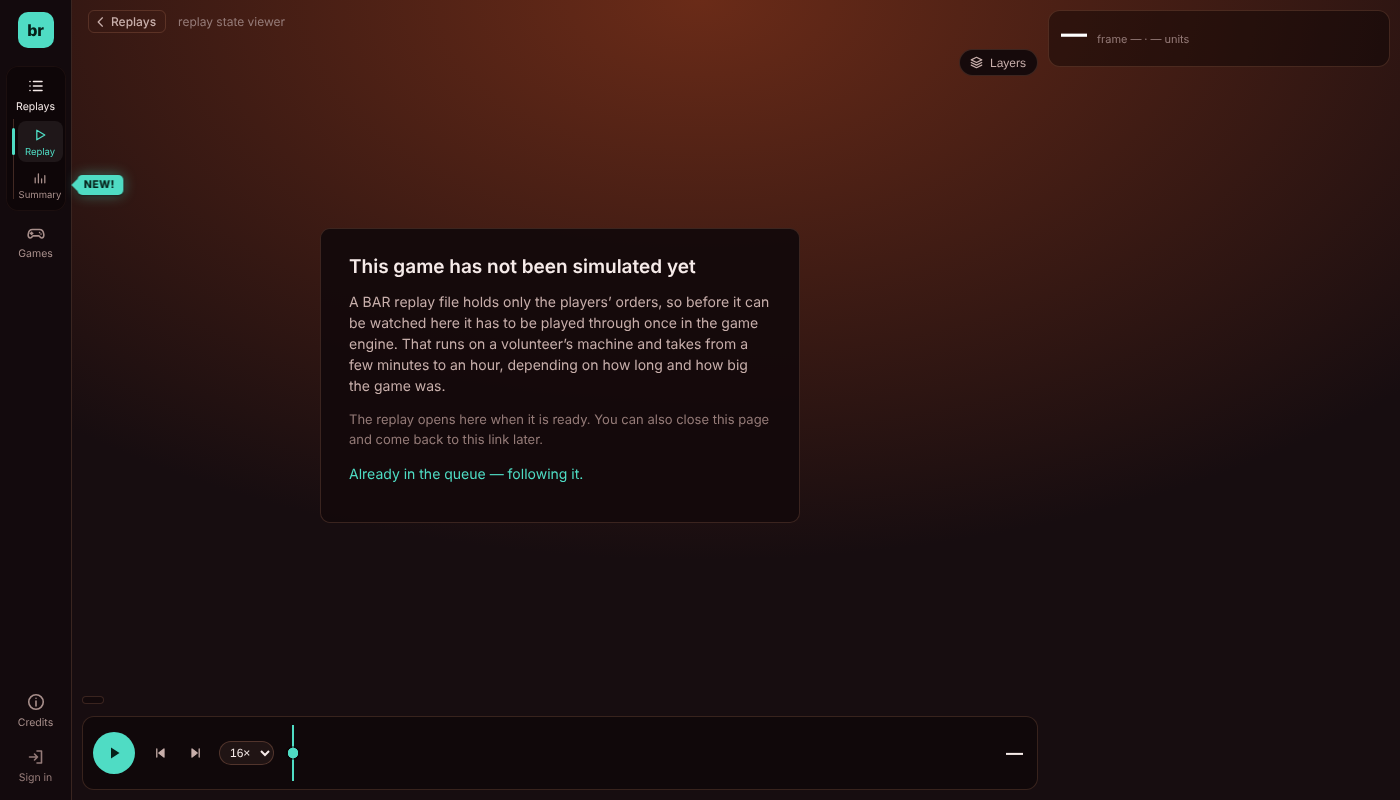
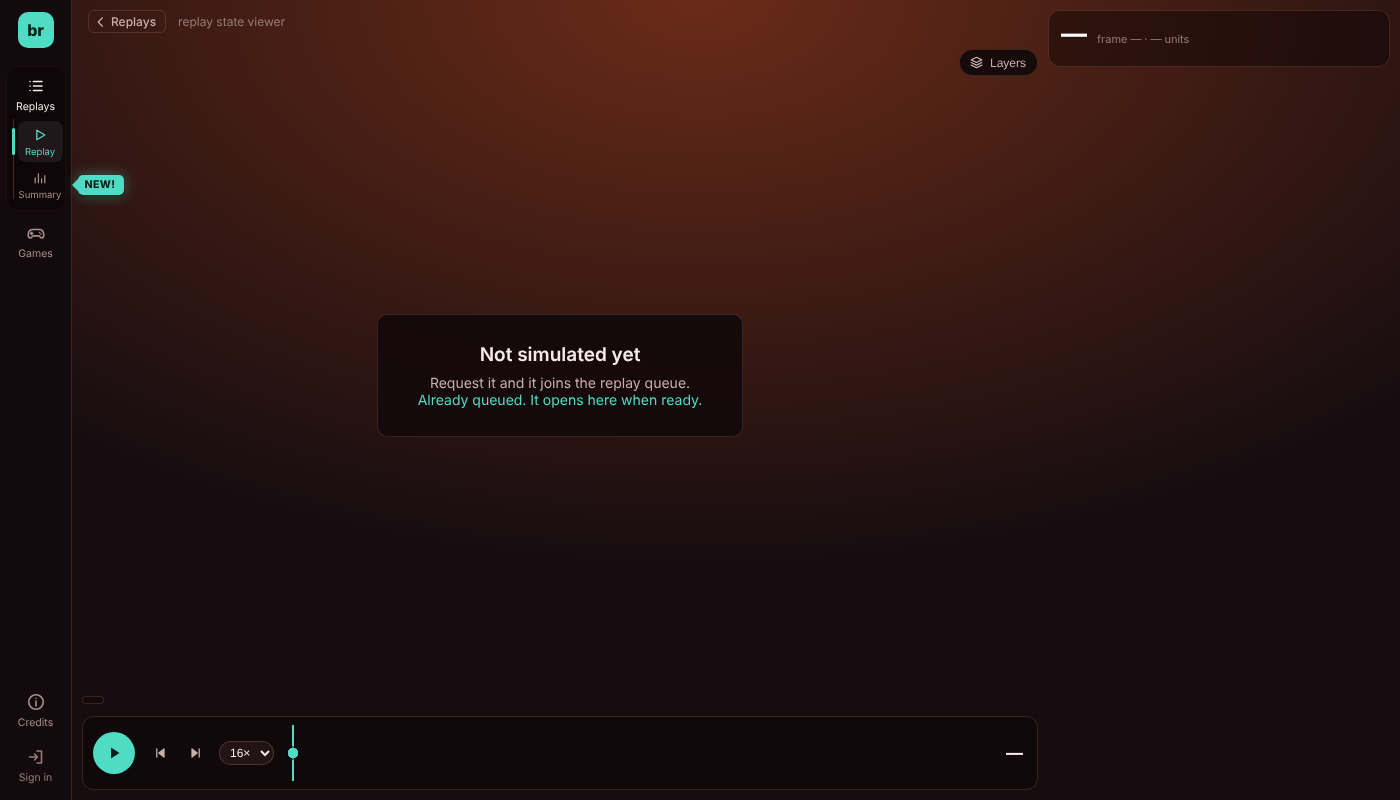
Not-simulated card: one line of text, room around the button
Claude-Session: https://claude.ai/code/session_01MihfZnu86dK371bs93mBz5

Changed region(s): [[0.215, 0.2812, 0.5836, 0.5938], [0.0614, 0.2188, 0.0921, 0.25]]

diff --git a/worker/public/app.js b/worker/public/app.js
@@ -4688,26 +4688,18 @@ function showNotSimulated(id, row) {
   emptyEl.appendChild(box);
   if (!gameId) {
     h.textContent = 'No such replay';
-    p.textContent = `Nothing is published under “${id}”. Check the link, or find the game in the replay list.`;
+    p.textContent = 'Check the link.';
     return;
   }
-  h.textContent = 'This game has not been simulated yet';
-  p.textContent = 'A BAR replay file holds only the players’ orders, so before it can be watched here '
-    + 'it has to be played through once in the game engine. That runs on a volunteer’s machine '
-    + 'and takes from a few minutes to an hour, depending on how long and how big the game was.';
+  const busy = row && row.placeholder && row.processing;
+  h.textContent = 'Not simulated yet';
+  p.textContent = busy ? 'It is being simulated right now.' : 'Request it and it joins the replay queue.';
   const btn = document.createElement('button');
   btn.className = 'notsim-go';
   const status = document.createElement('p');
   status.className = 'notsim-status';
-  const busy = row && row.placeholder && row.processing;
-  btn.textContent = busy ? 'Follow its progress' : 'Request a replay';
-  const note = document.createElement('p');
-  note.className = 'notsim-note';
-  note.textContent = busy
-    ? 'It is being simulated right now. This page will open the replay when it is ready.'
-    : 'The game is added to the replay queue and simulated when a machine is free. '
-      + 'You can keep this page open: the replay opens here when it is ready, or come back to this link later.';
-  box.append(btn, note, status);
+  btn.textContent = busy ? 'Follow progress' : 'Request replay';
+  box.append(btn, status);
   const say = (text, cls) => { status.textContent = text || ''; status.className = 'notsim-status' + (cls ? ' ' + cls : ''); };
   btn.addEventListener('click', async () => {
     btn.disabled = true;
@@ -4742,13 +4734,13 @@ function showNotSimulated(id, row) {
       return;
     }
     btn.style.display = 'none';
-    say(resp.status === 'duplicate' ? 'Already in the queue — following it.' : 'Added to the queue.', 'ok');
-    note.textContent = 'The replay opens here when it is ready. You can also close this page and come back to this link later.';
+    p.style.display = 'none';
+    say(resp.status === 'duplicate' ? 'Already queued. It opens here when ready.' : 'Queued. It opens here when ready.', 'ok');
     const gen = loadGen;
     pollJob(resp.job, gameId, (text, cls) => { if (gen === loadGen) say(text, cls); }, {
       slowIntervalMs: 30_000,
       stop: () => gen !== loadGen,
-      waiting: 'In the queue — waiting for a machine to pick it up…',
+      waiting: 'Queued. It opens here when ready.',
       processing: (j) => 'Simulating' + (j.progress ? ': ' + progressText(j.progress) : '…'),
       onDone: () => { if (gen === loadGen) loadReplay(id); },
     });

diff --git a/worker/public/style.css b/worker/public/style.css
@@ -1252,20 +1252,19 @@ body.admin-mode #filters .admin { display: inline-block; }
 /* "Not simulated yet": what a /replays/<gameId> link to an unpublished game
    shows instead of the bucket's 404 page (app.js showNotSimulated). */
 #empty .notsim {
-  max-width: 480px; padding: 24px 28px; text-align: left;
+  padding: 28px 40px; text-align: center;
   border: 1px solid var(--line); border-radius: 10px; background: var(--float);
-  color: var(--muted); font-size: 14px; line-height: 1.5;
+  color: var(--muted); font-size: 14px;
 }
-#empty .notsim h2 { margin: 0 0 10px; color: var(--text); font-size: 19px; font-weight: 600; }
-#empty .notsim p { margin: 0 0 14px; }
+#empty .notsim h2 { margin: 0 0 8px; color: var(--text); font-size: 19px; font-weight: 600; }
+#empty .notsim p { margin: 0; }
 #empty .notsim-go {
-  font: inherit; font-weight: 600; padding: 8px 16px; border-radius: 6px; cursor: pointer;
+  margin-top: 22px; font: inherit; font-weight: 600; padding: 10px 22px; border-radius: 6px; cursor: pointer;
   border: 0; background: var(--accent); color: var(--accent-ink);
 }
 #empty .notsim-go:hover { background: var(--accent-hi); }
 #empty .notsim-go:disabled { opacity: .55; cursor: default; }
-#empty .notsim-note { margin: 12px 0 0; font-size: 13px; color: var(--faint); }
-#empty .notsim-status { margin: 12px 0 0; color: var(--lilac); }
+#empty .notsim .notsim-status { margin-top: 16px; color: var(--lilac); }
 #empty .notsim-status:empty { display: none; }
 #empty .notsim-status.ok { color: var(--accent); }
 #empty .notsim-status.error { color: #ff8a80; }
